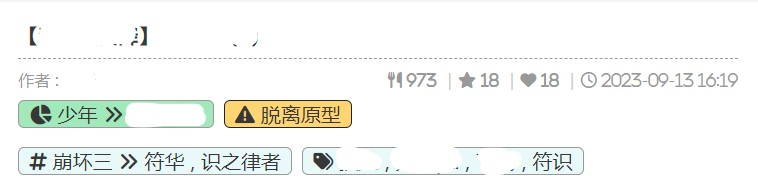
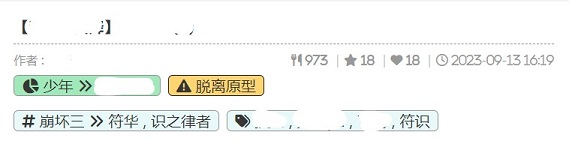
smaller picture

diff --git a/README.md b/README.md
@@ -12,7 +12,7 @@
 ## Wland 文章条目
 为便于后面解释，姑且放一张样图：
 
-![Example](https://gitlab.com/ChlorideP/wland_parody_filter/raw/develop/img/example.jpg)
+![Example](https://gitlab.com/ChlorideP/wland_parody_filter/raw/master/img/example.jpg)
 
 - 标题 `Title`：虚线上方的加粗文本
 - 作者 `Author`：如图所示
